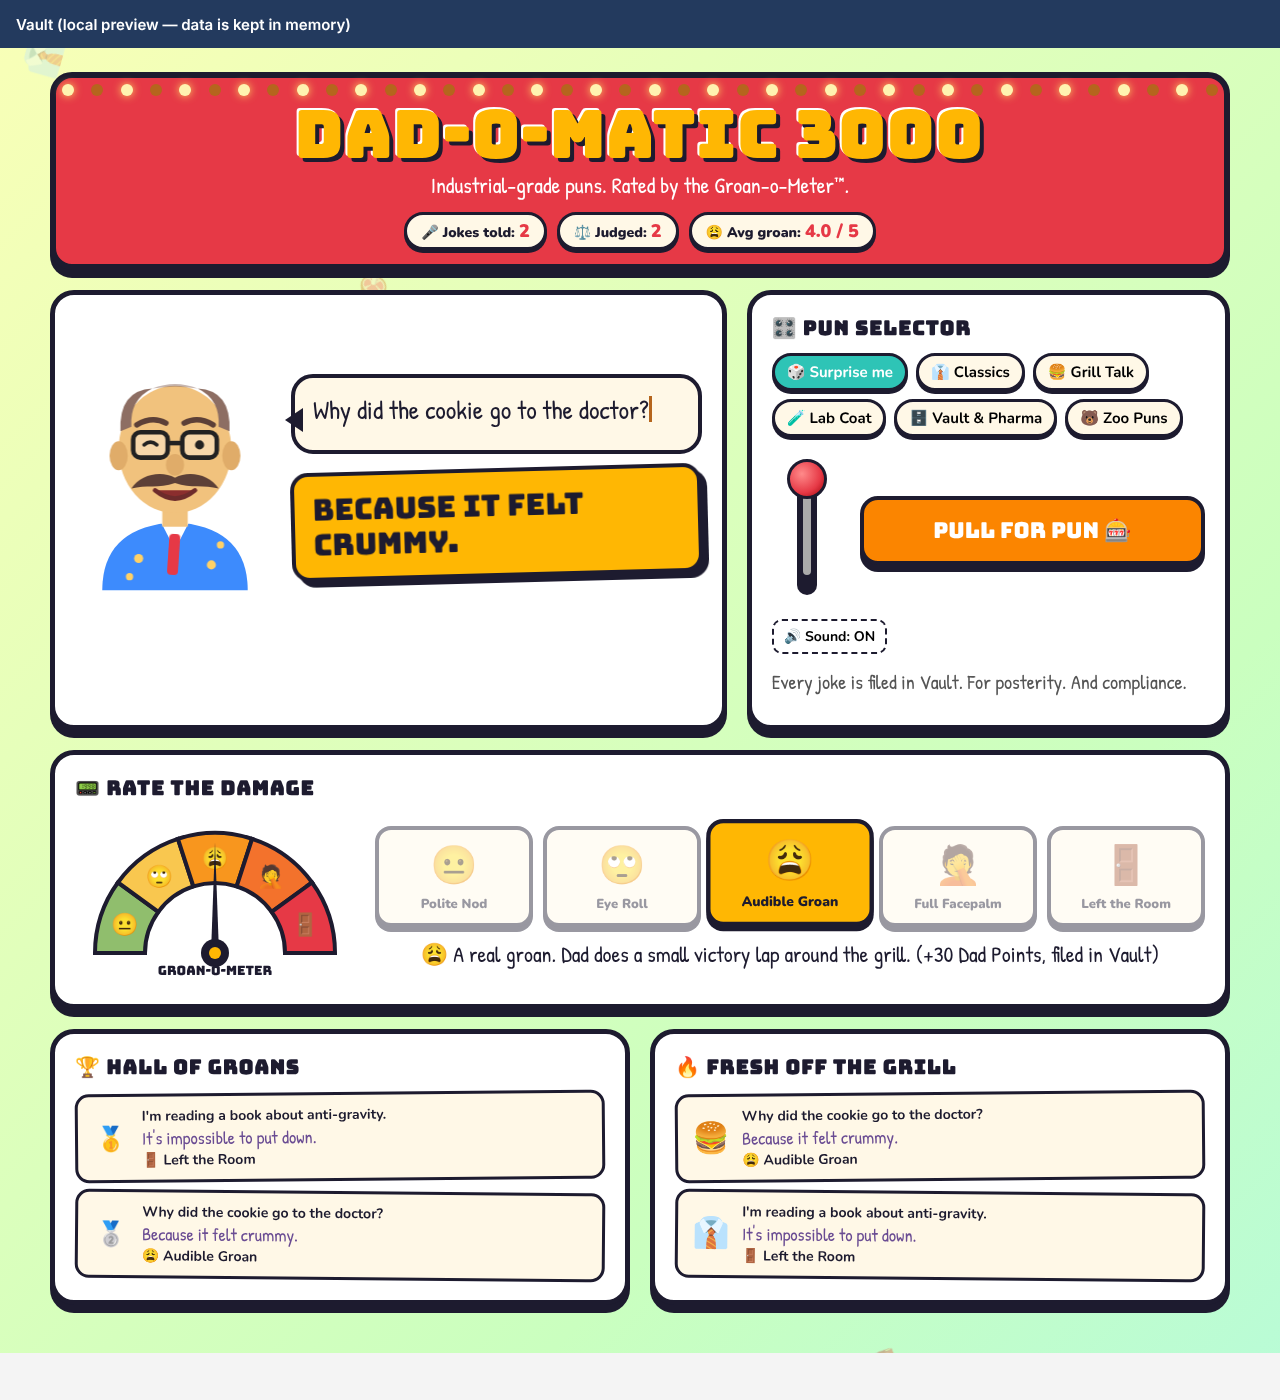
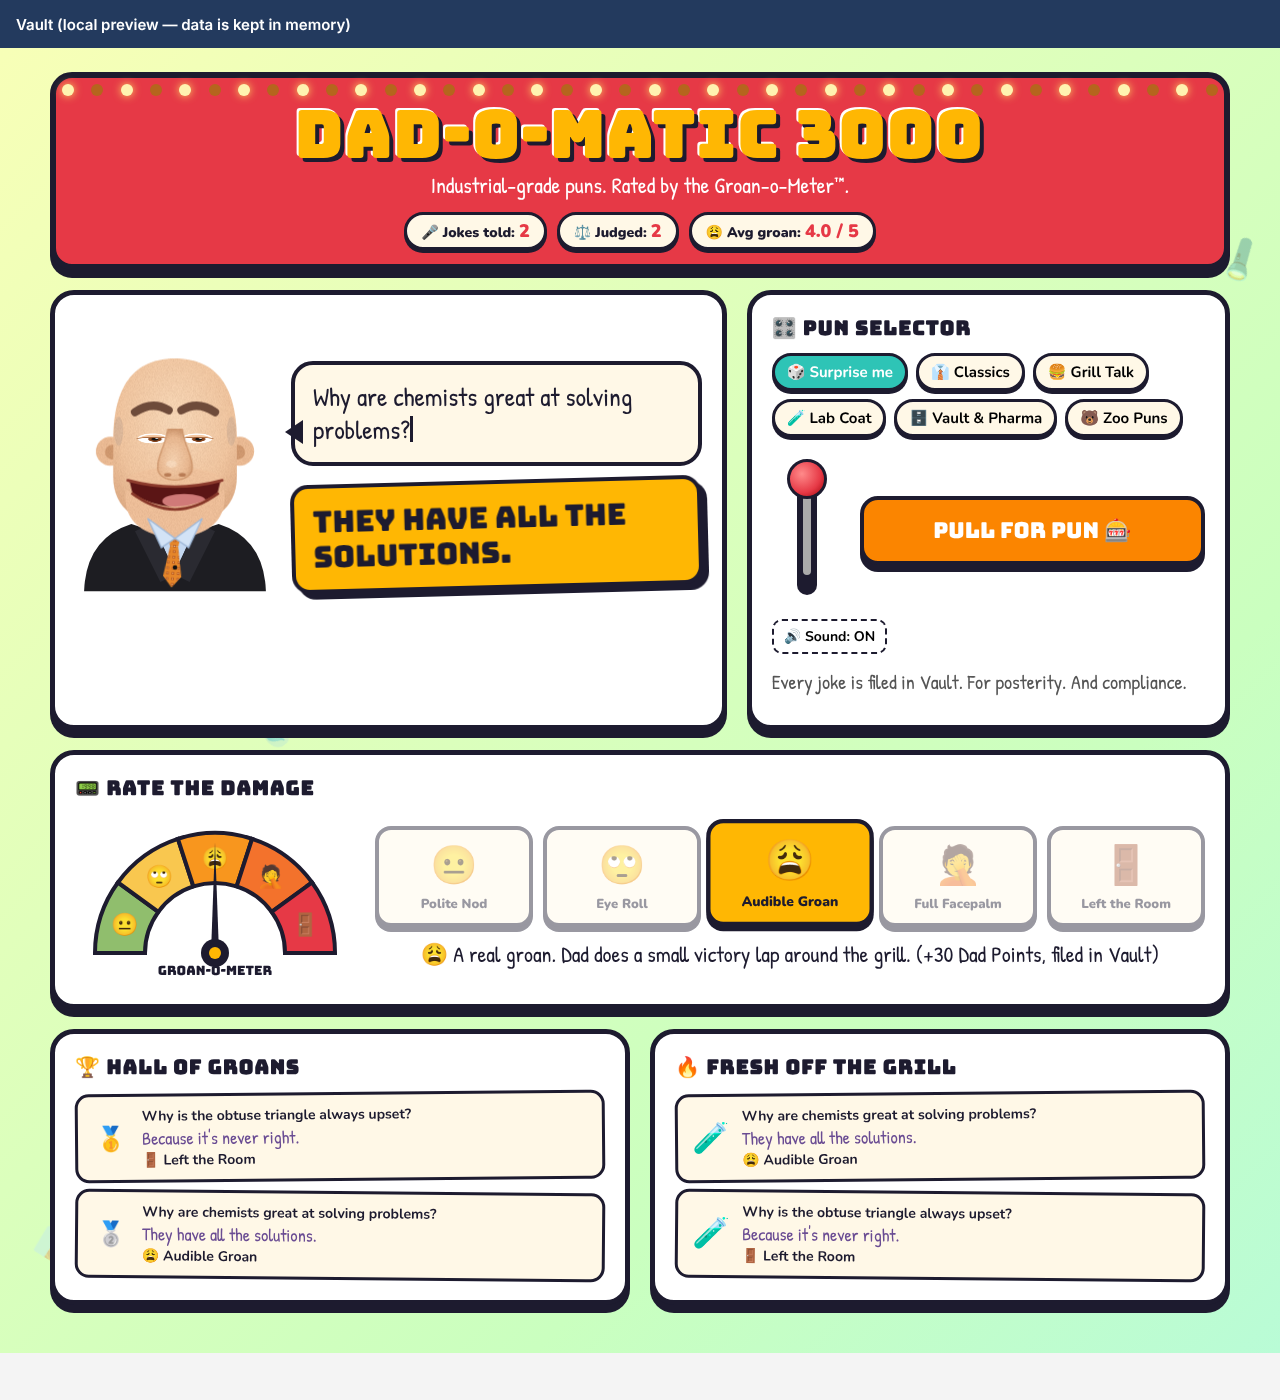
Redraw Dad as a felt hand puppet with a flapping jaw
Claude-Session: https://claude.ai/code/session_018wFN8Ge7w6gaALsTw1UWXu

diff --git a/client/src/dad.js b/client/src/dad.js
@@ -1,36 +1,96 @@
-// Dad, drawn in SVG. Classes on the parts are animated from styles.css.
+// Dad, drawn in SVG as a felt hand puppet. Classes on the parts are animated from styles.css.
 export const DAD_SVG = `
-<svg class="dad" viewBox="0 0 220 260" aria-hidden="true">
+<svg class="dad" viewBox="0 0 220 262" aria-hidden="true">
+  <defs>
+    <filter id="djg-felt" x="-5%" y="-5%" width="110%" height="110%">
+      <feTurbulence type="fractalNoise" baseFrequency="1.1" numOctaves="3" seed="7" result="noise"/>
+      <feColorMatrix in="noise" type="matrix" values="0 0 0 0 0.45  0 0 0 0 0.3  0 0 0 0 0.2  0 0 0 -0.45 0.32" result="speckle"/>
+      <feComposite in="speckle" in2="SourceGraphic" operator="in" result="fuzz"/>
+      <feBlend in="SourceGraphic" in2="fuzz" mode="multiply"/>
+    </filter>
+    <radialGradient id="djg-skin" cx="50%" cy="38%" r="65%">
+      <stop offset="0" stop-color="#fbdcbc"/>
+      <stop offset=".7" stop-color="#f4c9a3"/>
+      <stop offset="1" stop-color="#e3b18a"/>
+    </radialGradient>
+    <radialGradient id="djg-nose" cx="45%" cy="60%" r="60%">
+      <stop offset="0" stop-color="#fad6b4"/>
+      <stop offset=".75" stop-color="#ecbb93"/>
+      <stop offset="1" stop-color="#d49e75"/>
+    </radialGradient>
+    <pattern id="djg-tie" width="6" height="6" patternUnits="userSpaceOnUse">
+      <rect width="6" height="6" fill="#e5862a"/>
+      <rect x="1" y="1" width="3" height="3" rx=".8" fill="#b4521b"/>
+      <circle cx="2.5" cy="2.5" r=".7" fill="#f6c27a"/>
+    </pattern>
+  </defs>
+
   <g class="dad-body">
-    <path d="M30 260 Q30 190 110 185 Q190 190 190 260 Z" fill="#3d8bfd"/>
-    <path d="M95 186 L110 215 L125 186 Z" fill="#fff"/>
-    <rect x="104" y="198" width="12" height="45" rx="4" fill="#e63946" class="dad-tie"/>
-    <circle cx="70" cy="225" r="5" fill="#ffd166"/><circle cx="150" cy="232" r="5" fill="#ffd166"/>
-    <circle cx="160" cy="210" r="4" fill="#ffd166"/><circle cx="60" cy="245" r="4" fill="#ffd166"/>
+    <path d="M10 262 Q12 204 62 188 L110 204 L158 188 Q208 204 210 262 Z" fill="#1d1d22"/>
+    <path d="M84 186 L110 240 L136 186 Z" fill="#c4d8f1"/>
+    <path d="M86 186 L110 244 L94 252 L66 196 Z" fill="#2a2a31"/>
+    <path d="M134 186 L110 244 L126 252 L154 196 Z" fill="#2a2a31"/>
+    <g class="dad-tie">
+      <path d="M103 200 L117 200 L114.5 213 L105.5 213 Z" fill="url(#djg-tie)"/>
+      <path d="M105.5 213 L114.5 213 L120 246 L110 258 L100 246 Z" fill="url(#djg-tie)"/>
+    </g>
+    <circle cx="110" cy="236" r="2.5" fill="#111"/>
   </g>
+
   <g class="dad-head">
-    <rect x="96" y="160" width="28" height="30" fill="#f1c27d"/>
-    <ellipse cx="110" cy="105" rx="62" ry="70" fill="#f1c27d"/>
-    <ellipse cx="48" cy="112" rx="10" ry="16" fill="#e0ac69"/>
-    <ellipse cx="172" cy="112" rx="10" ry="16" fill="#e0ac69"/>
-    <path d="M50 85 Q48 40 85 38 Q60 50 62 80 Z" fill="#8d6e63"/>
-    <path d="M170 85 Q172 40 135 38 Q160 50 158 80 Z" fill="#8d6e63"/>
-    <path d="M85 38 Q110 28 135 38 Q110 34 85 38" fill="#8d6e63" opacity=".5"/>
+    <g filter="url(#djg-felt)">
+      <circle cx="39" cy="108" r="16" fill="#efbf98"/>
+      <circle cx="181" cy="108" r="16" fill="#efbf98"/>
+      <circle cx="41" cy="109" r="8" fill="#d39c72"/>
+      <circle cx="179" cy="109" r="8" fill="#d39c72"/>
+      <path d="M110 6 C162 6 178 46 178 96 L178 136 C178 172 150 190 110 190 C70 190 42 172 42 136 L42 96 C42 46 58 6 110 6 Z" fill="url(#djg-skin)"/>
+      <ellipse cx="48" cy="86" rx="5" ry="16" fill="#c7ab97" opacity=".45"/>
+      <ellipse cx="172" cy="86" rx="5" ry="16" fill="#c7ab97" opacity=".45"/>
+    </g>
+
     <g class="dad-brows">
-      <path d="M68 78 Q85 68 100 76" stroke="#5d4037" stroke-width="6" fill="none" stroke-linecap="round"/>
-      <path d="M120 76 Q135 68 152 78" stroke="#5d4037" stroke-width="6" fill="none" stroke-linecap="round"/>
+      <path d="M66 72 Q85 59 103 70" stroke="#6e4b3a" stroke-width="9" fill="none" stroke-linecap="round"/>
+      <path d="M117 70 Q135 59 154 72" stroke="#6e4b3a" stroke-width="9" fill="none" stroke-linecap="round"/>
     </g>
-    <g class="dad-glasses" fill="rgba(255,255,255,.35)" stroke="#222" stroke-width="5">
-      <rect x="64" y="86" width="38" height="28" rx="8"/>
-      <rect x="118" y="86" width="38" height="28" rx="8"/>
-      <path d="M102 98 L118 98" fill="none"/>
+
+    <g class="dad-eye">
+      <ellipse cx="86" cy="94" rx="17" ry="14" fill="#fff"/>
+      <circle cx="88" cy="96" r="7.5" fill="#86461f"/>
+      <circle cx="88" cy="96" r="3.8" fill="#111"/>
+      <circle cx="90" cy="93.5" r="1.4" fill="#fff"/>
+      <path d="M67 95 Q86 72 105 95 Q86 87 67 95 Z" fill="#f4c7a1"/>
+      <path d="M68 94 Q86 87 104 94" stroke="#a8693f" stroke-width="2" fill="none"/>
     </g>
-    <g class="dad-eyes" fill="#222">
-      <circle cx="83" cy="100" r="5"/><circle cx="137" cy="100" r="5"/>
+    <g class="dad-eye">
+      <ellipse cx="134" cy="94" rx="17" ry="14" fill="#fff"/>
+      <circle cx="136" cy="96" r="7.5" fill="#86461f"/>
+      <circle cx="136" cy="96" r="3.8" fill="#111"/>
+      <circle cx="138" cy="93.5" r="1.4" fill="#fff"/>
+      <path d="M115 95 Q134 72 153 95 Q134 87 115 95 Z" fill="#f4c7a1"/>
+      <path d="M116 94 Q134 87 152 94" stroke="#a8693f" stroke-width="2" fill="none"/>
     </g>
-    <path class="dad-wink" d="M76 100 Q83 94 90 100" stroke="#222" stroke-width="4" fill="none" stroke-linecap="round"/>
-    <ellipse cx="110" cy="122" rx="10" ry="12" fill="#e0ac69"/>
-    <path class="dad-mouth" d="M88 150 Q110 168 132 150" stroke="#6d2b2b" stroke-width="5" fill="#8b2e2e" stroke-linecap="round"/>
-    <path class="dad-stache" d="M110 136 C95 128 72 132 62 148 C78 144 92 148 110 142 C128 148 142 144 158 148 C148 132 125 128 110 136 Z" fill="#5d4037"/>
+
+    <path class="dad-mouth" d="M60 141 Q110 152 160 141 Q152 186 110 188 Q68 186 60 141 Z" fill="#5b1515"/>
+    <ellipse cx="120" cy="163" rx="24" ry="8" fill="#d07a78"/>
+
+    <g class="dad-jaw" filter="url(#djg-felt)">
+      <path d="M56 148 Q110 186 164 148 Q170 196 110 202 Q50 196 56 148 Z" fill="#f2c39d"/>
+      <path d="M62 152 Q110 188 158 152" stroke="#8c3a2c" stroke-width="3" fill="none"/>
+    </g>
+
+    <g filter="url(#djg-felt)">
+      <path d="M58 140 Q110 154 162 140 Q150 124 110 128 Q70 124 58 140 Z" fill="#f4c7a1"/>
+      <ellipse cx="110" cy="134" rx="15" ry="5" fill="#cf9a72" opacity=".6"/>
+      <path d="M102 84 C99 104 90 114 91 127 C92 144 128 144 129 127 C130 114 121 104 118 84 Z" fill="url(#djg-nose)" stroke="#d29a70" stroke-width="1.5"/>
+      <ellipse cx="106" cy="122" rx="6" ry="4" fill="#fde3c8" opacity=".7"/>
+    </g>
+    <path d="M58 140 Q110 154 162 140" stroke="#8c3a2c" stroke-width="3" fill="none" stroke-linecap="round"/>
+    <ellipse cx="102" cy="134" rx="4" ry="2" fill="#b97c55"/>
+    <ellipse cx="118" cy="134" rx="4" ry="2" fill="#b97c55"/>
+  </g>
+
+  <g class="dad-collar">
+    <path d="M80 182 L110 204 L95 214 Z" fill="#d3e3f6" stroke="#9fb8d8" stroke-width="1.5"/>
+    <path d="M140 182 L110 204 L125 214 Z" fill="#d3e3f6" stroke="#9fb8d8" stroke-width="1.5"/>
   </g>
 </svg>`;

diff --git a/client/src/styles.css b/client/src/styles.css
@@ -78,16 +78,19 @@
 .dad { width: 200px; height: auto; overflow: visible; }
 .dad-head { transform-origin: 110px 185px; animation: djg-bob 2.4s ease-in-out infinite; }
 @keyframes djg-bob { 0%, 100% { transform: rotate(-2deg); } 50% { transform: rotate(2deg) translateY(-3px); } }
-.dad-stache { transform-origin: 110px 140px; }
-.dad-wink { display: none; }
+.dad-eye { transform-box: fill-box; transform-origin: center; animation: djg-blink-eye 5s infinite; }
+@keyframes djg-blink-eye { 0%, 95%, 100% { transform: scaleY(1); } 97.5% { transform: scaleY(.1); } }
+/* Puppet jaw: flaps while Dad talks, drops wide open when he laughs. */
+.dad-jaw { transition: transform .15s; }
+.djg.is-thinking .dad-jaw { animation: djg-talk .16s ease-in-out infinite alternate; }
+@keyframes djg-talk { from { transform: translateY(-8px); } to { transform: translateY(3px); } }
 .djg.is-thinking .dad-brows { animation: djg-brows .35s ease-in-out infinite alternate; }
 @keyframes djg-brows { to { transform: translateY(-6px); } }
-.djg.is-punchline .dad-stache { animation: djg-stache .18s ease-in-out 6 alternate; }
-@keyframes djg-stache { from { transform: scaleX(1) rotate(-4deg); } to { transform: scaleX(1.15) rotate(4deg); } }
+.djg.is-punchline .dad-jaw { animation: djg-guffaw .14s ease-in-out 10 alternate forwards; }
+@keyframes djg-guffaw { from { transform: translateY(2px); } to { transform: translateY(12px); } }
+.djg.is-punchline .dad-brows { transform: translateY(-7px); transition: transform .2s; }
 .djg.is-punchline .dad-head { animation: djg-laugh .15s ease-in-out 8 alternate; }
 @keyframes djg-laugh { to { transform: translateY(-6px) rotate(3deg); } }
-.djg.is-punchline .dad-eyes circle:first-child { display: none; }
-.djg.is-punchline .dad-wink { display: block; }
 .dad-tie { transform-origin: 110px 198px; animation: djg-tie 3s ease-in-out infinite; }
 @keyframes djg-tie { 0%, 100% { transform: rotate(4deg); } 50% { transform: rotate(-4deg); } }
 
